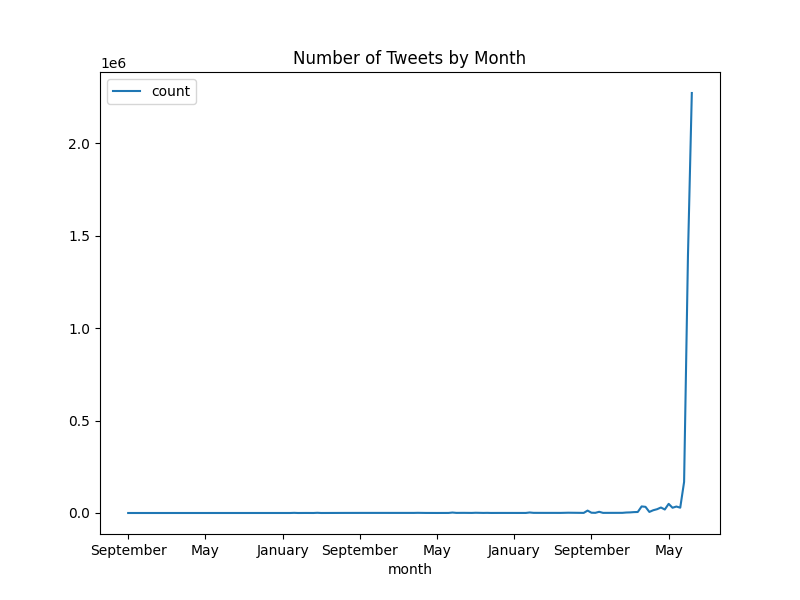
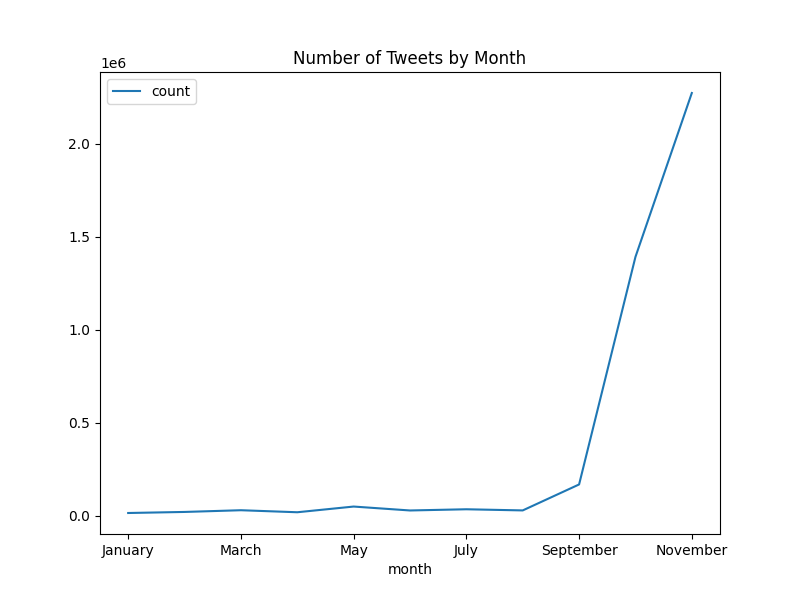
Graph stats is kinda working

diff --git a/getStatistics.py b/getStatistics.py
@@ -4,6 +4,7 @@ from nltk import *
 from nltk.corpus import stopwords
 import string
 from wordcloud import WordCloud
+from processData import filterHashtags
 
 if __name__ == '__main__':
    # Get processed data:
@@ -14,13 +15,13 @@ if __name__ == '__main__':
    print(f'Number of filtered tweets: {len(filtered)} ({len(filtered)/len(ingested)*100:.2f}%)')
    
    # Let's see statistics by year:
-   monthly = ingested.groupby(pd.Grouper(key='publicationtime', freq='ME'))
+   monthly = ingested[ingested['publicationtime'].dt.year == 2021].groupby(pd.Grouper(key='publicationtime', freq='ME'))
    monthly = monthly.size().reset_index(name='count')
    monthly['month'] = monthly['publicationtime'].dt.month_name()
    monthly.plot(x='month', y='count', kind='line', figsize=(8, 6))
    plt.title('Number of Tweets by Month')
    plt.savefig('img/allTweetsByMonth.png')
-   #   It looks like the vast majority of data is from 2021, so let's limit to that:
+   # It looks like the vast majority of data is from 2021, so let's limit to that:
    grouped_by_month = filtered[filtered['publicationtime'].dt.year == 2021].groupby(pd.Grouper(key='publicationtime', freq='ME'))
    relevantPerMonth = grouped_by_month.size().reset_index(name='count')
    relevantPerMonth['month'] = relevantPerMonth['publicationtime'].dt.month_name()
@@ -30,33 +31,71 @@ if __name__ == '__main__':
    plt.savefig('img/relevantTweetsByMonth.png')
 
    # Tokenization:
-   tt = TweetTokenizer()
+   tt = TweetTokenizer(strip_handles=True)
    corpusTokens = set()
    for tweet in filtered['full_text']:
       for token in tt.tokenize(tweet):
-         token = token.lower()
+         token = token.lower().strip()
          if token not in stopwords.words('english') and token not in string.punctuation and not token.startswith('http') and not token.startswith('@'):
             corpusTokens.add(token)
             
    # Stemming:
    stemmer = PorterStemmer()
    stems = [stemmer.stem(token) for token in corpusTokens]
+   
+   # POS Tagging:
+   taggedWords = pos_tag(corpusTokens)
+   print('Tagged: ', taggedWords[:20], '\n')
+   print('NER: ', ne_chunk(taggedWords)[:20], '\n')
 
    # Frequency:
    numTopWords = 30
-   wordlist = FreqDist(stems)
-   word_features = [w for (w, c) in wordlist.most_common(numTopWords)]
-   print(f'Top {numTopWords} Words: ', ", ".join(word_features))
-   topFreq = FreqDist(word_features)
+   wordlistStems = FreqDist(stems)
+   topStems = [w for (w, _) in wordlistStems.most_common(numTopWords)]
+   print(f'Top {numTopWords} Word Stems: ', ", ".join(topStems), '\n')
+   topFreq = FreqDist(topStems)
    topFreq.plot(title='Relevant Tweet Word Frequency', show=False)
    plt.plot(kind='bar')
    plt.savefig('img/relevantWordFrequency.png')
+   wordlist = FreqDist(corpusTokens)
+   topWords = [w for (w, _) in wordlist.most_common(numTopWords)]
+   print(f'Top {numTopWords} Words: ', ", ".join(topWords), '\n')
+   
+   # Get stats from hashtags:
+   numTopHashtags = 10
+   relevantHashtags = []
+   for tagset in filtered['hashtags']:
+      hashtags = tagset.split(',')
+      hashtags = [tag.lower().strip() for tag in hashtags]
+      relevantHashtags.extend(hashtags)
+   hashtagFreq = FreqDist(relevantHashtags)
+   topHashtags = [w for (w, _) in hashtagFreq.most_common(numTopHashtags)]
+   topTagDF = filterHashtags(filtered, topHashtags)
+   # Save top hashtag tweets to new CSV and save top hashtags to text file:
+   topTagDF.to_csv('processed/topTagTweets.csv')
+   with open('processed/topTags.txt', 'w') as f:
+      f.write(",".join(topHashtags))
+   print('Top Hashtags: ', topHashtags[:20], '\n')
+   
+   # Generate wordclouds from frequencies:
+   wordcloudStems = WordCloud(
+         width=800, 
+         height=600,
+         background_color='white',
+         min_font_size=10
+      ).generate_from_frequencies(dict(wordlistStems.most_common(10000)))
+   plt.figure(figsize=(8, 6), facecolor=None)
+   plt.imshow(wordcloudStems)
+   plt.axis('off')
+   plt.tight_layout(pad=0)
+   plt.savefig('img/relevantStemCloud.png')
+   
    wordcloud = WordCloud(
          width=800, 
          height=600,
          background_color='white',
          min_font_size=10
-      ).generate_from_frequencies(dict(wordlist.most_common(200)))
+      ).generate_from_frequencies(dict(wordlist.most_common(10000)))
    plt.figure(figsize=(8, 6), facecolor=None)
    plt.imshow(wordcloud)
    plt.axis('off')

diff --git a/graphStats.py b/graphStats.py
@@ -1,0 +1,74 @@
+import pandas as pd
+import networkx as nx
+import matplotlib.pyplot as plt
+from nltk import FreqDist
+import re, logging
+
+if __name__ == '__main__':
+   # Prevent the warnings from matplotlib:
+   logging.getLogger('matplotlib.font_manager').disabled = True
+   
+   # Get processed data:
+   print('Reading from CSV...', end=' ')
+   relevant_data = pd.read_csv('processed/topTagTweets.csv', parse_dates=['publicationtime']).convert_dtypes()
+   print('Done')
+   
+   # Construct a co-occurrence network
+   G = nx.Graph()
+   for hashtags in relevant_data['hashtags']:
+      for i, hashtag1 in enumerate(hashtags):
+         for hashtag2 in hashtags[i+1:]:
+            G.add_edge(hashtag1.lower(), hashtag2.lower())  # Add edge between co-occurring hashtags
+
+   # View graph, highlighting communities:
+   communities = nx.community.greedy_modularity_communities(G)
+   supergraph = nx.cycle_graph(len(communities))
+   superpos = nx.spring_layout(G, scale=50, seed=429)
+   centers = list(superpos.values())
+   pos = {}
+   for center, comm in zip(centers, communities):
+      pos.update(nx.spring_layout(nx.subgraph(G, comm), center=center, seed=1534))
+   for nodes, clr in zip(communities, ('tab:red', 'tab:blue', 'tab:green', 'tab:orange', 'tab:purple')):
+      nx.draw_networkx_nodes(G, pos=pos, node_color=clr, nodelist=nodes, node_size=50)
+   nx.draw_networkx_edges(G, pos=pos)
+   plt.tight_layout()
+   plt.title('Hashtag Co-Occurrence Network')
+   plt.savefig('img/hashtagsGraph.png')
+
+   # Calculate centrality measures
+   degree_centrality = nx.degree_centrality(G)
+   betweenness_centrality = nx.betweenness_centrality(G, k=100)  # k is the number of random samples
+   eigenvector_centrality = nx.eigenvector_centrality(G, max_iter=1000)
+
+   # Plot degree centrality
+   plt.figure(figsize=(8, 6))
+   plt.bar(degree_centrality.keys(), degree_centrality.values())
+   plt.title('Degree Centrality')
+   plt.xlabel('Hashtag')
+   plt.ylabel('Centrality')
+   plt.xticks(rotation=90)
+   plt.tight_layout()
+   plt.savefig('img/degree_centrality.png')
+   plt.close()
+
+   # Plot betweenness centrality
+   plt.figure(figsize=(8, 6))
+   plt.bar(betweenness_centrality.keys(), betweenness_centrality.values())
+   plt.title('Betweenness Centrality')
+   plt.xlabel('Hashtag')
+   plt.ylabel('Centrality')
+   plt.xticks(rotation=90)
+   plt.tight_layout()
+   plt.savefig('img/betweenness_centrality.png')
+   plt.close()
+
+   # Plot eigenvector centrality
+   plt.figure(figsize=(8, 6))
+   plt.bar(eigenvector_centrality.keys(), eigenvector_centrality.values())
+   plt.title('Eigenvector Centrality')
+   plt.xlabel('Hashtag')
+   plt.ylabel('Centrality')
+   plt.xticks(rotation=90)
+   plt.tight_layout()
+   plt.savefig('img/eigenvector_centrality.png')
+   plt.close()

diff --git a/processData.py b/processData.py
@@ -37,7 +37,7 @@ if __name__ == '__main__':
    
    # Manipulate the data:
    mentalHealthTags = ['mental[a-z ]*health', 'depress[a-z]*', 'anxiet[a-z]*']
-   wellnessTags = ['[a-z ]*wellness[a-z ]*', '[a-z ]*health[a-z ]*', r'fitness\d*', 'nutrition[a-z]*', 'sleep[a-z]*', 'mindful[a-z]*', r'diet\d*', ]
+   wellnessTags = ['[a-z ]*wellness[a-z ]*', '[a-z ]*health[a-z ]*', r'fitness\d*', 'nutrition[a-z]*', 'sleep[a-z]*', 'mindful[a-z]*', r'diet\d*', r'\d*workout\d*', 'HIIT', r'\d*fasting']
    filtered = filterHashtags(ingested, wellnessTags)
    print(f'Number of matching tweets: {len(filtered)} ({len(filtered)/len(ingested)*100:.2f}%)')
    
